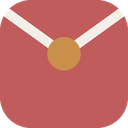
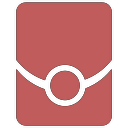
feat: 扩展图标改用口令历史里的红包字形（v0.9.3）

diff --git a/tools/make-icons.py b/tools/make-icons.py
@@ -1,58 +1,171 @@
 #!/usr/bin/env python3
 """生成扩展图标（16/32/48/128 PNG）。
 
-配色遵循 docs/AGENTS.md：红包红 #c05c5c、封口金 #c98f4b、暖燕麦底 #f3efe8。
-图形为「红包封口」：红色圆角方片、暖色 V 形封口线与金色封口圆点。
+图形沿用面板历史行「查看红包详情」按钮里的那颗红包字形（`src/panel.js` 的
+`PACKET_ICON_PATHS`，与脚本版网站行内按钮同一组 path）：红包红 #c05c5c 单色填充、
+透明底，等比放到画布里最大。字形本身是 793.6×1024 的竖长红包，上片的封口弧线把封口
+圆环留成负空间，因此按高度铺到画布的 96%、横向居中。
+
+先画一张 2048 的母版再降采样到各尺寸：字形里最细的负空间只有约 3.5% 的画布高度，
+直接按目标尺寸画会让小尺寸下的圆环糊成一片。
 用法：python3 tools/make-icons.py
 """
 
 import os
+import re
 
-from PIL import Image, ImageChops, ImageDraw
+from PIL import Image, ImageDraw
 
 RED = (192, 92, 92, 255)
-GOLD = (201, 143, 75, 255)
-CREAM = (243, 239, 232, 255)
 
 SIZES = (16, 32, 48, 128)
-SUPERSAMPLE = 8
+# 图形高度占画布的比例，四周留一点边距，工具栏里不会顶到边（字形实际是 793.6×1024，
+# 竖长，横向本来就有富余）。
+FILL_RATIO = 0.96
+MASTER = 2048
+# 每条三次贝塞尔压成的折线段数；母版 2048 下足够抹平肉眼可见的棱角。
+CURVE_STEPS = 48
+
+PACKET_ICON_PATHS = (
+    'M925.888 76.8v400.96c-57.088 73.408-134.08 130.56-222.848 163.328C681.536 570.112 615.616 518.4 537.6 518.4'
+    'c-79.936 0-147.264 54.336-166.912 128.064-95.36-31.616-178.048-91.072-238.4-168.704V76.8c0-42.24 34.56-76.8 76.8-76.8'
+    'h640c42.24 0 76.8 34.56 76.8 76.8z',
+    'M925.888 554.56V947.2c0 42.24-34.56 76.8-76.8 76.8h-640c-42.24 0-76.8-34.56-76.8-76.8V554.56c59.712 76.8 141.248'
+    ' 135.808 235.328 167.68C382.208 802.88 452.8 864 537.6 864c87.104 0 159.168-64.448 171.072-148.288'
+    ' 86.464-33.024 161.344-89.344 217.216-161.152z',
+    'M659.2 691.2c0 14.976-2.688 29.312-7.68 42.56C634.24 779.904 589.76 812.8 537.6 812.8c-50.496 0-93.824-30.784-112.192-74.688'
+    '-6.08-14.4-9.408-30.272-9.408-46.912 0-10.752 1.408-21.184 4.032-31.104C433.792 608 481.216 569.6 537.6 569.6'
+    'c55.04 0 101.504 36.544 116.48 86.72 3.328 11.072 5.12 22.784 5.12 34.88z',
+)
+
 OUT_DIR = os.path.normpath(os.path.join(os.path.dirname(os.path.abspath(__file__)), '..', 'icons'))
 
+# 这组 path 只用到直线、水平/垂直与三次贝塞尔的绝对/相对写法，够用就好。
+TOKENS = re.compile(r'[MmLlHhVvCcSsZz]|[-+]?(?:\d+\.?\d*|\.\d+)(?:[eE][-+]?\d+)?')
+ARG_COUNT = ('M', 'L', 'H', 'V', 'C', 'S', 'Z')
 
-def draw_icon(size):
-    scale = size * SUPERSAMPLE
-    canvas = Image.new('RGBA', (scale, scale), (0, 0, 0, 0))
+
+def _bezier(start, control1, control2, end):
+    points = []
+    for step in range(1, CURVE_STEPS + 1):
+        t = step / CURVE_STEPS
+        u = 1 - t
+        points.append((
+            u * u * u * start[0] + 3 * u * u * t * control1[0] + 3 * u * t * t * control2[0] + t * t * t * end[0],
+            u * u * u * start[1] + 3 * u * u * t * control1[1] + 3 * u * t * t * control2[1] + t * t * t * end[1],
+        ))
+    return points
+
+
+def flatten(path):
+    """把一条 SVG path 压成折线点集（闭合轮廓，不带自交）。"""
+    tokens = TOKENS.findall(path)
+    points = []
+    index = 0
+    command = None
+    start = current = (0.0, 0.0)
+    last_control = None
+
+    def number():
+        nonlocal index
+        value = float(tokens[index])
+        index += 1
+        return value
+
+    while index < len(tokens):
+        token = tokens[index]
+        if token.upper() in ARG_COUNT:
+            command = token
+            index += 1
+        elif command is None:
+            raise ValueError('path 以数字开头: %r' % path[:24])
+
+        kind = command.upper()
+        # 命令后跟的成对数字是同一命令的重复参数，大小写沿用该命令自己。
+        relative = command.islower()
+        if kind == 'Z':
+            points.append(start)
+            current = start
+            last_control = None
+            command = None
+            continue
+        if kind == 'M':
+            x, y = number(), number()
+            current = (current[0] + x, current[1] + y) if relative else (x, y)
+            start = current
+            # moveto 之后跟着的成对数字按 lineto 处理。
+            command = 'l' if relative else 'L'
+            last_control = None
+        elif kind == 'L':
+            x, y = number(), number()
+            current = (current[0] + x, current[1] + y) if relative else (x, y)
+            last_control = None
+        elif kind == 'H':
+            x = number()
+            current = (current[0] + x, current[1]) if relative else (x, current[1])
+            last_control = None
+        elif kind == 'V':
+            y = number()
+            current = (current[0], current[1] + y) if relative else (current[0], y)
+            last_control = None
+        elif kind == 'C':
+            x1, y1, x2, y2, x, y = (number() for _ in range(6))
+            control1 = (current[0] + x1, current[1] + y1) if relative else (x1, y1)
+            control2 = (current[0] + x2, current[1] + y2) if relative else (x2, y2)
+            end = (current[0] + x, current[1] + y) if relative else (x, y)
+            points.extend(_bezier(current, control1, control2, end))
+            current = end
+            last_control = control2
+        elif kind == 'S':
+            x2, y2, x, y = (number() for _ in range(4))
+            control1 = current if last_control is None else (
+                2 * current[0] - last_control[0],
+                2 * current[1] - last_control[1],
+            )
+            control2 = (current[0] + x2, current[1] + y2) if relative else (x2, y2)
+            end = (current[0] + x, current[1] + y) if relative else (x, y)
+            points.extend(_bezier(current, control1, control2, end))
+            current = end
+            last_control = control2
+        else:
+            raise ValueError('path 里出现未支持的命令: %s' % command)
+
+        points.append(current)
+    return points
+
+
+def render_mask(px):
+    """按目标像素边长画一张灰度遮罩：字形等比铺满高度、横向居中。"""
+    shapes = [flatten(path) for path in PACKET_ICON_PATHS]
+    xs = [point[0] for points in shapes for point in points]
+    ys = [point[1] for points in shapes for point in points]
+    # 图形铺满高度、横向居中；边界直接取自折线，换字形时不必再手工核对数字。
+    origin_x, origin_y = min(xs), min(ys)
+    width, height = max(xs) - origin_x, max(ys) - origin_y
+    scale = px * FILL_RATIO / height
+    left = (px - width * scale) / 2
+    top = (px - height * scale) / 2
+    canvas = Image.new('L', (px, px), 0)
     draw = ImageDraw.Draw(canvas)
-    radius = scale * 0.24
-    draw.rounded_rectangle((0, 0, scale - 1, scale - 1), radius=radius, fill=RED)
 
-    # 封口折线：从上方两角收拢到中心，随后用圆角矩形蒙版裁掉溢出边角。
-    joint_y = scale * 0.42
-    draw.line(
-        [(0, scale * 0.06), (scale / 2, joint_y), (scale, scale * 0.06)],
-        fill=CREAM,
-        width=max(1, round(scale * 0.075)),
-        joint='curve',
-    )
+    def place(point):
+        return (left + (point[0] - origin_x) * scale, top + (point[1] - origin_y) * scale)
 
-    # 金色封口圆点压在折线交点上，小尺寸下也能读出「红包」形状。
-    seal = scale * 0.13
-    draw.ellipse(
-        (scale / 2 - seal, joint_y - seal, scale / 2 + seal, joint_y + seal),
-        fill=GOLD,
-    )
-
-    mask = Image.new('L', (scale, scale), 0)
-    ImageDraw.Draw(mask).rounded_rectangle((0, 0, scale - 1, scale - 1), radius=radius, fill=255)
-    canvas.putalpha(ImageChops.multiply(canvas.getchannel('A'), mask))
-    return canvas.resize((size, size), Image.LANCZOS)
+    for points in shapes:
+        # 三片是同一个颜色，逐片填即可，重叠处不必额外做并集。
+        draw.polygon([place(point) for point in points], fill=255)
+    return canvas
 
 
 def main():
     os.makedirs(OUT_DIR, exist_ok=True)
+    master = render_mask(MASTER)
     for size in SIZES:
+        icon = Image.new('RGBA', (size, size), (0, 0, 0, 0))
+        icon.putalpha(master.resize((size, size), Image.LANCZOS))
+        icon.paste(RED, (0, 0), icon)
         path = os.path.join(OUT_DIR, 'icon%d.png' % size)
-        draw_icon(size).save(path, optimize=True)
+        icon.save(path, optimize=True)
         print('wrote %s' % path)
 
 

diff --git a/README.md b/README.md
@@ -20,6 +20,8 @@
 
 - 去掉开卡闪烁、停靠/悬浮跟实际形态对齐（v0.9.1）：卡片样式原来是放进 shadow root 的 `<link>`，样式到达之前会先画一帧没样式的卡片——暗色主题下就是「底部关闭按钮先亮一下再变暗」。现在面板一加载就把随包的 `envelope.css` 读成一张 stylesheet，开卡片时同步挂上，读不到时才退回 `<link>` 并在这期间先藏住卡片。「显示方式」也不再只是记个偏好：进到侧边栏就记成「停靠」，侧边栏收起或被浏览器藏起来时自动切回「悬浮」，在侧边栏里点「悬浮」会顺手把自己收起来。
 
+- 换成红包字形图标（v0.9.3）：扩展图标不再用另画的一枚「红包封口」，直接沿用口令历史里「查看红包详情」按钮那颗红包字形（与脚本版网站行内按钮同一组 path），红包红单色、透明底，由 `tools/make-icons.py` 光栅化成 16/32/48/128，形状与配色跟面板里那颗图标一致。
+
 站点内嵌模式（可选）与脚本版历史迁移在后续里程碑接入，计划见 `docs/开发计划/浏览器插件化.md`。
 
 ## 形态

diff --git a/AGENTS.md b/AGENTS.md
@@ -75,8 +75,9 @@ src/
 
 ## 图标
 
-- `tools/make-icons.py` 生成 16/32/48/128 PNG；配色遵循 `docs/AGENTS.md` 的红包红与封口金，风格保持线性简洁。
-- 改动配色后重新生成图标，不要手改像素。
+- `tools/make-icons.py` 生成 16/32/48/128 PNG；图形是面板历史行「查看红包详情」按钮里的那颗红包字形（`panel.js` 的 `PACKET_ICON_PATHS`，与脚本版网站行内按钮同一组 path），红包红 `#c05c5c` 单色填充、透明底，等比铺满画布高度、横向居中。
+- 脚本自带一个只认 M/L/H/V/C/S/Z 的极简 path 光栅器：把 path 压成折线后按 2048 的母版填充，再降到各尺寸——字形里最细的负空间只有画布高度的 3.5% 左右，直接按目标尺寸画会让小尺寸下的封口圆环糊掉。
+- 换字形或改配色后重新生成图标，不要手改像素。面板内的界面图标仍是随包的线性简洁写法（Lucide 风格，MIT）。
 
 ## 加载与自检
 
